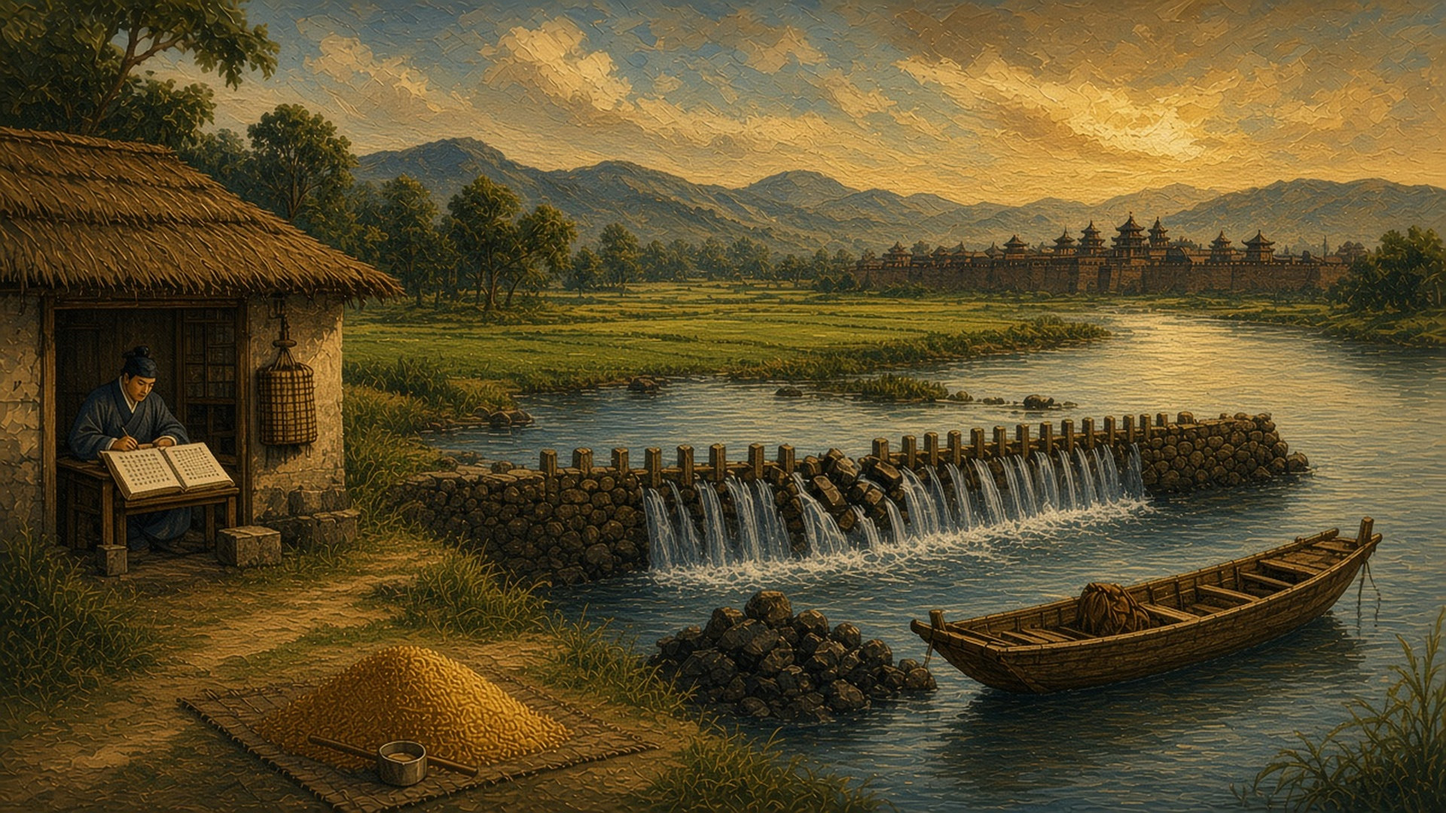
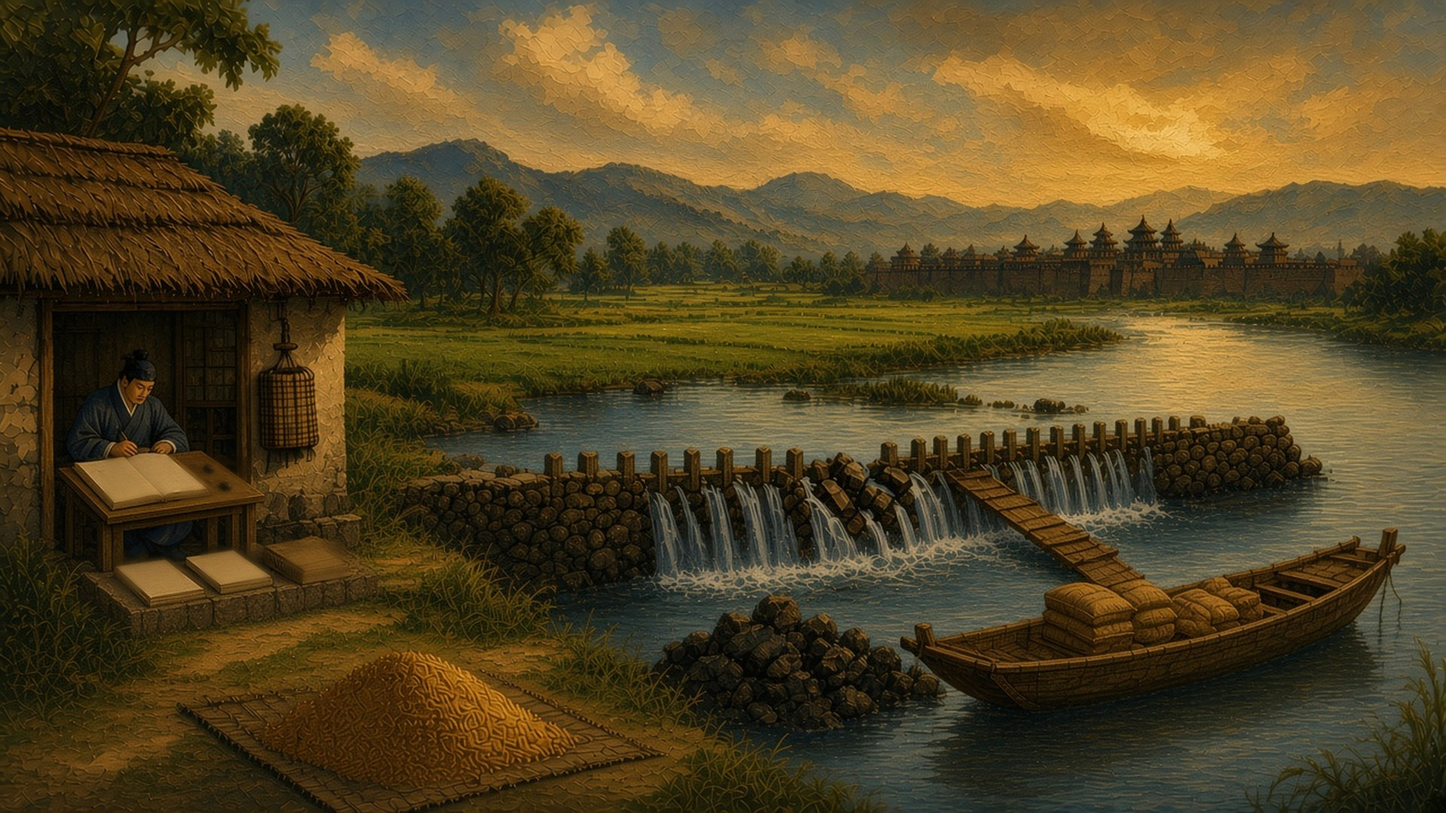
木兰陂按审稿重画并改九处热区，顺手校准香药市试药与仪门门槛
门口垫石补份册，案上水租簿与两份账分开，派工用石子锚点；册页去掉可认读的格子。送米热区落到靠堰船板。场景稿画风节改为光荣九十年代油画，界面仍走纸墨。

diff --git a/docs/scenes/NK1-场景设计稿-20份.md b/docs/scenes/NK1-场景设计稿-20份.md
@@ -1364,15 +1364,15 @@ Mulan Weir, Xinghua, Southern Song, mid-morning. Rice paper, ink line. An old st
 
 | id | 画面上像什么 | 坐标 (x,y) | kind | 短讯形态 | 数据 |
 |---|---|---:|---|---|---|
-| `xh_mulan_share` | 陂司门口的份册。 | (0.22, 0.48) | place | 确认「入水利」。 | `invest`。 |
-| `xh_mulan_repair` | 堰中段松了的一排石。 | (0.44, 0.62) | place | 确认「补堰　150钱」。一次。 | `favour`，乡情、名声。 |
-| `xh_mulan_weir` | 堰脚另一处松石。 | (0.52, 0.70) | place | 确认「修陂石　120钱」。一次，flag `xh_mulan_weir`。 | `favour`。 |
-| `xh_mulan_grainbuy` | 陂上分出来的米堆。 | (0.36, 0.66) | goods | 无 flag：还没到那一步。有则确认「陂上分米」。 | `buy`，粮 8，0.9。 |
-| `xh_mulan_siege` | 靠堰的一条可放米的船板。 | (0.58, 0.56) | place | 非围城：城防的账还没开／战况不对。围城：确认「送米进城」。 | `favour`，扣舱米 8，加城防粮。 |
-| `npc_zhengyan_meet` | 小屋里的郑堰。 | (0.26, 0.42) | person | 确认「陂司书手」。一次。 | `favour`。 |
-| `npc_zhengyan_ledger` | 他案上的水租簿。 | (0.28, 0.50) | goods | 未见：还没到那一步。见过：确认「对水租簿」。 | `favour`。 |
-| `npc_zhengyan_invest` | 簿上派工的那一栏。 | (0.30, 0.54) | place | 未对簿：还没到那一步。对过：确认「认修陂工」。 | `invest`。 |
-| `npc_zhengyan_split` | 两份摊开的账。 | (0.32, 0.58) | goods | 未认工：还没到那一步。认过：两路「留作堰工」「按契分」。 | `choice`。 |
+| `xh_mulan_share` | 陂司门口的份册。 | (0.21, 0.69) | place | 确认「入水利」。 | `invest`。 |
+| `xh_mulan_repair` | 堰中段松了的一排石。 | (0.58, 0.55) | place | 确认「补堰　150钱」。一次。 | `favour`，乡情、名声。 |
+| `xh_mulan_weir` | 堰脚另一处松石。 | (0.53, 0.71) | place | 确认「修陂石　120钱」。一次，flag `xh_mulan_weir`。 | `favour`。 |
+| `xh_mulan_grainbuy` | 陂上分出来的米堆。 | (0.24, 0.84) | goods | 无 flag：还没到那一步。有则确认「陂上分米」。 | `buy`，粮 8，0.9。 |
+| `xh_mulan_siege` | 靠堰的一条可放米的船板。 | (0.68, 0.64) | place | 非围城：城防的账还没开／战况不对。围城：确认「送米进城」。 | `favour`，扣舱米 8，加城防粮。 |
+| `npc_zhengyan_meet` | 小屋里的郑堰。 | (0.09, 0.48) | person | 确认「陂司书手」。一次。 | `favour`。 |
+| `npc_zhengyan_ledger` | 他案上的水租簿。 | (0.10, 0.58) | goods | 未见：还没到那一步。见过：确认「对水租簿」。 | `favour`。 |
+| `npc_zhengyan_invest` | 簿上派工的那一栏。 | (0.17, 0.58) | place | 未对簿：还没到那一步。对过：确认「认修陂工」。 | `invest`。 |
+| `npc_zhengyan_split` | 两份摊开的账。 | (0.12, 0.70) | goods | 未认工：还没到那一步。认过：两路「留作堰工」「按契分」。 | `choice`。 |
 
 ## 4. 各热区细致交互
 
@@ -1540,7 +1540,7 @@ Inside the ceremonial gate of Xinghua’s yamen, Southern Song, morning. Rice pa
 | `xh_yamen_clerk` | 书吏本人。 | (0.36, 0.50) | person | 一次两路：「塞钱　40钱」「按规矩」。 | 既有 `choice`。 |
 | `xh_yamen_fallen` | 仪门上的旗。 | (0.52, 0.28) | place | 城未破：眼下的战况不对。已破：两路「还认这道门」「换一张帖　50钱」。 | 既有 `choice`，`war_in: ["fallen"]`。 |
 | `xh_yamen_drum` | 庭中的鼓。 | (0.48, 0.62) | place | 旁白一句。 | 新增 `look`。 |
-| `xh_yamen_threshold` | 被磨低的门槛。 | (0.46, 0.74) | place | 旁白一句。 | 新增 `look`。 |
+| `xh_yamen_threshold` | 被磨低的门槛。 | (0.38, 0.68) | place | 旁白一句。 | 新增 `look`。 |
 | `xh_yamen_notice` | 墙上的告示。 | (0.24, 0.38) | place | 旁白一句。贴图无字。 | 新增 `look`。 |
 | `xh_yamen_huizi` | 案上的会子。 | (0.34, 0.60) | goods | 旁白一句。 | 新增 `look`。 |
 | `xh_yamen_empty` | 庭心空着的砖地。 | (0.54, 0.52) | place | 旁白一句，点明货引不在这里。 | 新增 `look`。 |
@@ -1964,7 +1964,7 @@ Guangzhou aromatics market under an arcade, late morning, Southern Song. Rice pa
 | `gz_xiang_med` | 摊上的香药包。 | (0.28, 0.60) | goods | 确认「收香药」。有南舶公凭则按原让价。 | `buy`，4，0.9。 |
 | `gz_xiang_wood` | 苏木堆。 | (0.46, 0.64) | goods | 确认「出手苏木」。 | `sell`，4，1.04。 |
 | `gz_xiang_pepper` | 胡椒袋。 | (0.38, 0.70) | goods | 确认「收胡椒」。 | `buy`，5，0.93。 |
-| `gz_xiang_test` | 牙人手里的小匙。 | (0.34, 0.52) | person | 两路：「试一试　5钱」「旁观」。每月一次。 | `choice`。 |
+| `gz_xiang_test` | 牙人手里的小匙。 | (0.52, 0.42) | person | 两路：「试一试　5钱」「旁观」。每月一次。 | `choice`。 |
 | `gz_xiang_rumor2` | 秤边可问话的牙人袖口。 | (0.42, 0.48) | person | 确认「听胡椒　12钱」。 | `rumor`，泉州胡椒 ×1.15，40 日。 |
 | `gz_xiang_mill` | 石药碾。 | (0.22, 0.72) | place | 旁白一句。 | 新增 `look`。 |
 | `gz_xiang_rawwood` | 尚未开价的一截新苏木。 | (0.54, 0.58) | goods | 旁白一句。 | 新增 `look`。 |

diff --git a/docs/scenes/08-xh_mulan-木兰陂.md b/docs/scenes/08-xh_mulan-木兰陂.md
@@ -55,15 +55,15 @@ Mulan Weir, Xinghua, Southern Song, mid-morning. Rice paper, ink line. An old st
 
 | id | 画面上像什么 | 坐标 (x,y) | kind | 短讯形态 | 数据 |
 |---|---|---:|---|---|---|
-| `xh_mulan_share` | 陂司门口的份册。 | (0.07, 0.54) | place | 确认「入水利」。 | `invest`。 |
-| `xh_mulan_repair` | 堰中段松了的一排石。 | (0.58, 0.48) | place | 确认「补堰　150钱」。一次。 | `favour`，乡情、名声。 |
-| `xh_mulan_weir` | 堰脚另一处松石。 | (0.50, 0.76) | place | 确认「修陂石　120钱」。一次，flag `xh_mulan_weir`。 | `favour`。 |
-| `xh_mulan_grainbuy` | 陂上分出来的米堆。 | (0.22, 0.86) | goods | 无 flag：还没到那一步。有则确认「陂上分米」。 | `buy`，粮 8，0.9。 |
-| `xh_mulan_siege` | 靠堰的一条可放米的船板。 | (0.70, 0.70) | place | 非围城：城防的账还没开／战况不对。围城：确认「送米进城」。 | `favour`，扣舱米 8，加城防粮。 |
-| `npc_zhengyan_meet` | 小屋里的郑堰。 | (0.10, 0.44) | person | 确认「陂司书手」。一次。 | `favour`。 |
-| `npc_zhengyan_ledger` | 他案上的水租簿。 | (0.14, 0.54) | goods | 未见：还没到那一步。见过：确认「对水租簿」。 | `favour`。 |
-| `npc_zhengyan_invest` | 簿上派工的那一栏。 | (0.16, 0.48) | place | 未对簿：还没到那一步。对过：确认「认修陂工」。 | `invest`。 |
-| `npc_zhengyan_split` | 两份摊开的账。 | (0.11, 0.60) | goods | 未认工：还没到那一步。认过：两路「留作堰工」「按契分」。 | `choice`。 |
+| `xh_mulan_share` | 陂司门口的份册。 | (0.21, 0.69) | place | 确认「入水利」。 | `invest`。 |
+| `xh_mulan_repair` | 堰中段松了的一排石。 | (0.58, 0.55) | place | 确认「补堰　150钱」。一次。 | `favour`，乡情、名声。 |
+| `xh_mulan_weir` | 堰脚另一处松石。 | (0.53, 0.71) | place | 确认「修陂石　120钱」。一次，flag `xh_mulan_weir`。 | `favour`。 |
+| `xh_mulan_grainbuy` | 陂上分出来的米堆。 | (0.24, 0.84) | goods | 无 flag：还没到那一步。有则确认「陂上分米」。 | `buy`，粮 8，0.9。 |
+| `xh_mulan_siege` | 靠堰的一条可放米的船板。 | (0.68, 0.64) | place | 非围城：城防的账还没开／战况不对。围城：确认「送米进城」。 | `favour`，扣舱米 8，加城防粮。 |
+| `npc_zhengyan_meet` | 小屋里的郑堰。 | (0.09, 0.48) | person | 确认「陂司书手」。一次。 | `favour`。 |
+| `npc_zhengyan_ledger` | 他案上的水租簿。 | (0.10, 0.58) | goods | 未见：还没到那一步。见过：确认「对水租簿」。 | `favour`。 |
+| `npc_zhengyan_invest` | 簿上派工的那一栏。 | (0.17, 0.58) | place | 未对簿：还没到那一步。对过：确认「认修陂工」。 | `invest`。 |
+| `npc_zhengyan_split` | 两份摊开的账。 | (0.12, 0.70) | goods | 未认工：还没到那一步。认过：两路「留作堰工」「按契分」。 | `choice`。 |
 
 ## 4. 各热区细致交互
 

diff --git a/docs/scenes/_shared_notes.md b/docs/scenes/_shared_notes.md
@@ -4,11 +4,11 @@
 
 ## 画风
 
-底图按纸墨风出：浅宣纸底、焦墨勾线、赭石／石青／花青／朱砂薄染。不要厚涂油画，不要暗黑哥特。现有港页油画底图是另一套资产，这二十张是给热区场景新画的。
+底图、过场、章节卡按光荣 90 年代日式历史油画出：厚涂，画布纹与笔触可见；暮光或巳时侧光，暖金高光；暗部用深褐、墨绿、靛蓝，暗部下限约 `#2A2418`，不要纯黑或哥特黑。取同期《大航海时代》《信长之野望》包装与场景油画的调子，物象仍要能一眼看清。时代从仓库：南宋晚期至元初，十三世纪东亚海域，不是明清。界面仍走纸墨，不改 UI 主题。
 
-统一尺寸 16:9（建议 1920×1080）。右侧约三成（天空、墙面或水面）留浅、少人或空，给 `DistrictHotspotView` 宽屏短讯层（右侧 260–360px）。顶上约一成留给区名、「场景／工席名单」、「回港口」。热区尽量落在左七成、避开顶栏。
+统一尺寸 16:9（建议 1920×1080）。城区热区图：可点物分在左约七成；右约三成留较空的天、水或墙，给 `DistrictHotspotView` 宽屏短讯层（右侧 260–360px）。顶上约一成少挡物，留给区名、「场景／工席名单」、「回港口」。每点对应一个轮廓清楚的物体，不要叠在同一块石或同一页纸上，中心距建议不小于约 0.06（归一化）。
 
-统一负面：文字、招牌大字、水印、签名、字母、UI 边框、现代物品、电线、玻璃、青花瓷、明清牌坊、石狮子、辫子、满清顶戴、哥特尖拱、暗黑浓雾、厚重油画、照片、3D 渲染、对称海报、动漫大眼。
+统一负面：文字、字母、招牌大字、水印、签名、UI 边框、现代物品、电线、玻璃、水泥、青花瓷、明清牌坊、石狮子、辫子、满清顶戴、哥特尖拱、纯黑洞穴、血红恐怖、暗黑浓雾、照片、3D 渲染、对称海报、动漫大眼。册页与告示只画模糊墨点或空白格，不要可认读的字。
 
 ## 进场与短讯
 

diff --git a/docs/scenes/12-gz_xiang-香药市.md b/docs/scenes/12-gz_xiang-香药市.md
@@ -58,7 +58,7 @@ Guangzhou aromatics market under an arcade, late morning, Southern Song. Rice pa
 | `gz_xiang_med` | 摊上的香药包。 | (0.10, 0.84) | goods | 确认「收香药」。有南舶公凭则按原让价。 | `buy`，4，0.9。 |
 | `gz_xiang_wood` | 苏木堆。 | (0.16, 0.54) | goods | 确认「出手苏木」。 | `sell`，4，1.04。 |
 | `gz_xiang_pepper` | 胡椒袋。 | (0.36, 0.62) | goods | 确认「收胡椒」。 | `buy`，5，0.93。 |
-| `gz_xiang_test` | 牙人手里的小匙。 | (0.30, 0.76) | person | 两路：「试一试　5钱」「旁观」。每月一次。 | `choice`。 |
+| `gz_xiang_test` | 牙人手里的小匙。 | (0.52, 0.42) | person | 两路：「试一试　5钱」「旁观」。每月一次。 | `choice`。 |
 | `gz_xiang_rumor2` | 秤边可问话的牙人袖口。 | (0.50, 0.48) | person | 确认「听胡椒　12钱」。 | `rumor`，泉州胡椒 ×1.15，40 日。 |
 | `gz_xiang_mill` | 石药碾。 | (0.22, 0.86) | place | 旁白一句。 | 新增 `look`。 |
 | `gz_xiang_rawwood` | 尚未开价的一截新苏木。 | (0.24, 0.44) | goods | 旁白一句。 | 新增 `look`。 |

diff --git a/docs/scenes/09-xh_yamen-军衙仪门.md b/docs/scenes/09-xh_yamen-军衙仪门.md
@@ -60,7 +60,7 @@ Inside the ceremonial gate of Xinghua’s yamen, Southern Song, morning. Rice pa
 | `xh_yamen_clerk` | 书吏本人。 | (0.08, 0.74) | person | 一次两路：「塞钱　40钱」「按规矩」。 | 既有 `choice`。 |
 | `xh_yamen_fallen` | 仪门上的旗。 | (0.50, 0.12) | place | 城未破：眼下的战况不对。已破：两路「还认这道门」「换一张帖　50钱」。 | 既有 `choice`，`war_in: ["fallen"]`。 |
 | `xh_yamen_drum` | 庭中的鼓。 | (0.44, 0.60) | place | 旁白一句。 | 新增 `look`。 |
-| `xh_yamen_threshold` | 被磨低的门槛。 | (0.36, 0.78) | place | 旁白一句。 | 新增 `look`。 |
+| `xh_yamen_threshold` | 被磨低的门槛。 | (0.38, 0.68) | place | 旁白一句。 | 新增 `look`。 |
 | `xh_yamen_notice` | 墙上的告示。 | (0.64, 0.50) | place | 旁白一句。贴图无字。 | 新增 `look`。 |
 | `xh_yamen_huizi` | 案上的会子。 | (0.16, 0.76) | goods | 旁白一句。 | 新增 `look`。 |
 | `xh_yamen_empty` | 庭心空着的砖地。 | (0.30, 0.60) | place | 旁白一句，点明货引不在这里。 | 新增 `look`。 |
